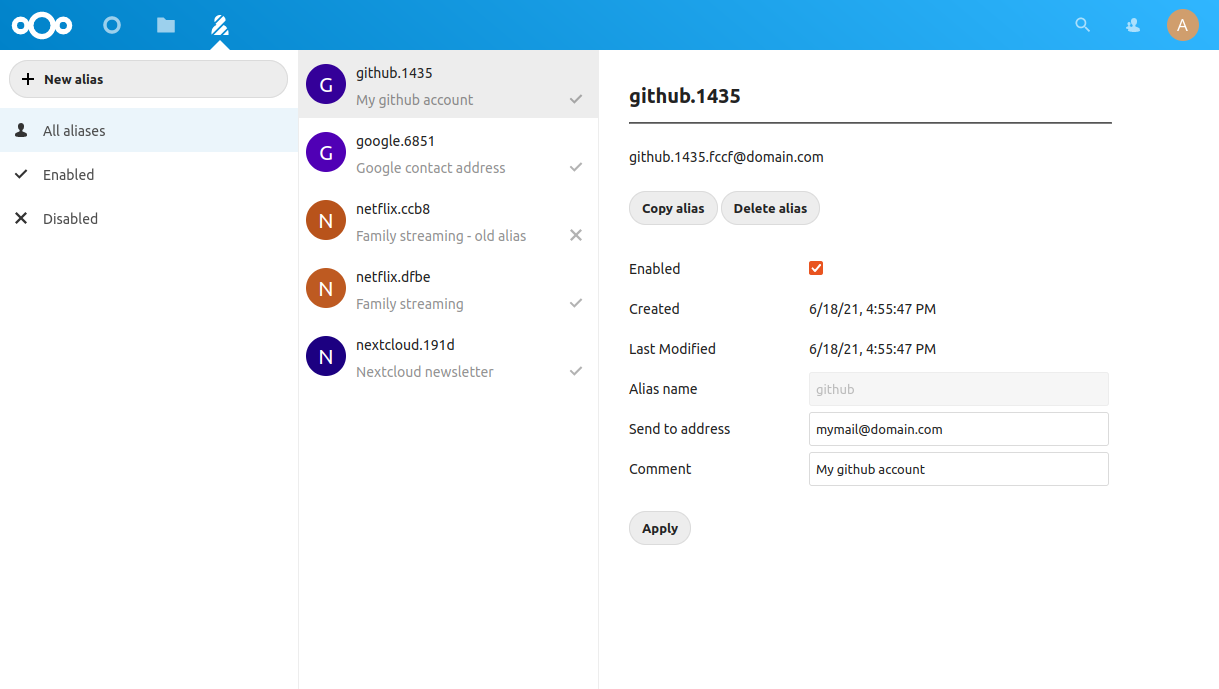
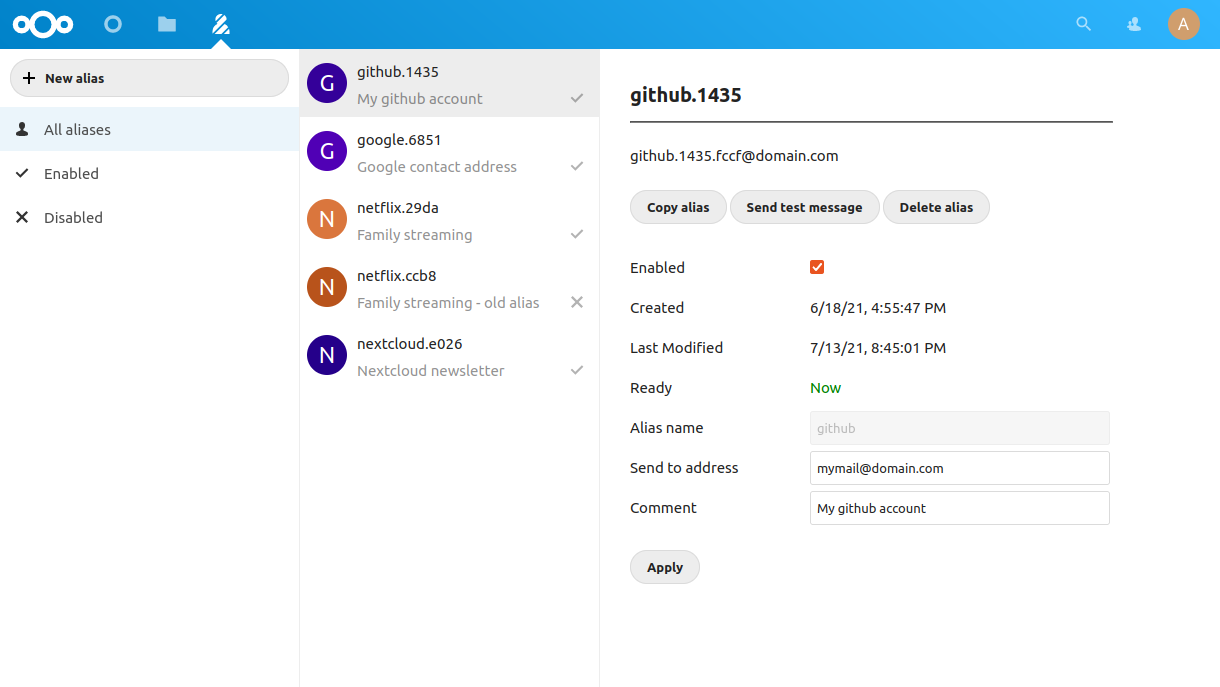
V1.1.2 (#14)
* update info.xml to 1.1.2

* Update readme for features of version 1.1 (#12)

* update screenshot for features of 1.1

* update readme to describe admin settings

* update readme to describe alias form

* fix wrong ready countdown on alias creation (#13)

diff --git a/src/templates.js b/src/templates.js
@@ -90,12 +90,14 @@ export function templateDeleteForm(id, aliasHead) {
 export function setAliasForm(alias, userInfo, config) {
     templateAliasForm(config);
 
+    // Set disable state of test mail button and ready message
+    templateReadyMessage(alias, config);
+
     if (alias === undefined) {
         // New alias mode
         // Enable/Disable fields
         $("#postmagAliasFormCopy").prop("disabled", true);
         $("#postmagAliasFormDelete").prop("disabled", true);
-        $("#postmagAliasFormSendTest").prop("disabled", true);
         $("#postmagAliasFormEnabled").prop("disabled", true);
         $("#postmagAliasFormAliasName").prop("disabled", false);
         $("#postmagAliasFormSendTo").prop("disabled", false);
@@ -108,13 +110,6 @@ export function setAliasForm(alias, userInfo, config) {
         $("#postmagAliasFormEnabled").prop("checked", true);
         $("#postmagAliasFormCreated").text(t("postmag", "Now"));
         $("#postmagAliasFormLastModified").text(t("postmag", "Now"));
-        $("#postmagAliasFormReadyMessage").text(n(
-            "postmag",
-            "%n second after creation",
-            "%n seconds after creation",
-            config['readyTime']));
-        $("#postmagAliasFormReadyMessage").removeClass("postmag-ready");
-        $("#postmagAliasFormReadyMessage").removeClass("postmag-notReady");
         $("#postmagAliasFormAliasName").prop("value", "");
         if(userInfo["email_set"] === "true")
             $("#postmagAliasFormSendTo").prop("value", userInfo["email"]);
@@ -124,9 +119,6 @@ export function setAliasForm(alias, userInfo, config) {
         $("#postmagAliasFormApply").text(t("postmag", "Create"));
     }
     else {
-        // Set disable state of test mail button and ready message
-        templateReadyMessage(alias, config);
-
         // Edit alias mode
         $("#postmagAliasFormCopy").prop("disabled", false);
         $("#postmagAliasFormDelete").prop("disabled", false);
@@ -153,32 +145,46 @@ export function setAliasForm(alias, userInfo, config) {
 }
 
 function templateReadyMessage(alias, config) {
-    const timeTillReady = config["readyTime"] - parseInt(Date.now()/1000) + alias["last_modified_utc"];
-    const ready = timeTillReady <= 0;
-
-    // Disable test mail button depending on if the alias is ready
-    $("#postmagAliasFormSendTest").prop("disabled", !alias["enabled"] || !ready);
-
     // Clear timeout if there is one already running
-    if(templateReadyMessage.timeoutId !== undefined) {
+    if (templateReadyMessage.timeoutId !== undefined) {
         window.clearTimeout(templateReadyMessage.timeoutId);
     }
 
-    if(ready) {
-        $("#postmagAliasFormReadyMessage").text(t("postmag", "Now"));
-        $("#postmagAliasFormReadyMessage").addClass("postmag-ready");
-        $("#postmagAliasFormReadyMessage").removeClass("postmag-notReady");
-    }
-    else {
+    // New alias mode
+    if(alias === undefined) {
+        $("#postmagAliasFormSendTest").prop("disabled", true);
+
         $("#postmagAliasFormReadyMessage").text(n(
             "postmag",
-            "In %n second",
-            "In %n seconds",
-            timeTillReady));
+            "%n second after creation",
+            "%n seconds after creation",
+            config['readyTime']));
         $("#postmagAliasFormReadyMessage").removeClass("postmag-ready");
-        $("#postmagAliasFormReadyMessage").addClass("postmag-notReady");
+        $("#postmagAliasFormReadyMessage").removeClass("postmag-notReady");
+    }
+    // Edit alias mode
+    else {
+        const timeTillReady = config["readyTime"] - parseInt(Date.now() / 1000) + alias["last_modified_utc"];
+        const ready = timeTillReady <= 0;
 
-        templateReadyMessage.timeoutId = window.setTimeout(templateReadyMessage, 1000, alias, config);
+        // Disable test mail button depending on if the alias is ready
+        $("#postmagAliasFormSendTest").prop("disabled", !alias["enabled"] || !ready);
+
+        if (ready) {
+            $("#postmagAliasFormReadyMessage").text(t("postmag", "Now"));
+            $("#postmagAliasFormReadyMessage").addClass("postmag-ready");
+            $("#postmagAliasFormReadyMessage").removeClass("postmag-notReady");
+        } else {
+            $("#postmagAliasFormReadyMessage").text(n(
+                "postmag",
+                "In %n second",
+                "In %n seconds",
+                timeTillReady));
+            $("#postmagAliasFormReadyMessage").removeClass("postmag-ready");
+            $("#postmagAliasFormReadyMessage").addClass("postmag-notReady");
+
+            templateReadyMessage.timeoutId = window.setTimeout(templateReadyMessage, 1000, alias, config);
+        }
     }
 }
 

diff --git a/README.md b/README.md
@@ -22,7 +22,35 @@ Every alias will be of the format
 alias_name.alias_id.user_alias_id@your_domain.com
 ```
 
-your_domain is configurable by the administrator.
+your_domain.com is configurable by the administrator.
+
+## Alias form
+
+Postmag gives the users of your Nextcloud instance an easy form to create aliases of your domain.
+
+![](screenshots/aliasform.png)
+
+* Copy alias: Copies the current alias to clipboard.
+* Send test message: Send a test mail to the current alias.
+* Delete alias: Delete this alias. Deleted aliases can not be restored and thus not be activated again. Consider disabling aliases if you don't want to receive messages via this alias anymore.
+* Enabled: If the alias is enabled, the user receives mails via it.
+* Created: Timestamp of creation of this alias.
+* Last Modified: Timestamp of last modification.
+* Ready: Shows the user, if the set settings of this alias are already valid. See "Time until alias changes are valid" in the settings section below for more information.
+* Alias name: The alias_name part of the alias. This can be chosen by the user at the creation of the alias, but it can't be changed afterwards.
+* Send to address: The target mail address of this alias.
+* Comment: A comment that the user can choose for further information. This has no technical purpose, it's just an information for the user.
+
+## App settings
+
+Postmag gives the admin of your Nextcloud instance some options to configure the app. You find the settings in the "Additional settings" section of Nextcloud.
+
+![](screenshots/settings.png)
+
+* Target mail domain: This is your domain for which the users can generate aliases. It is the your_domain.com part of the aliases.
+* Length of the user alias ids: Length of the user_alias_id part of the aliases. This affects only new users of your instance. The user_alias_id part never changes for existing users. But if your instance grows you can increase this value if you like.
+* Length of alias ids: Length of the alias_id part of the aliases. This affects only new aliases of the users. Existing aliases never changes.
+* Time until alias changes are valid: This setting is useful if you pull the postmag:aliases command (see below) in regular intervals to update your mail server config (for instance via a crontab trigger). You can than make the time until the next trigger visible to the user. For doing this, set the time interval here in seconds. If you don't need this feature, just set this setting to 0.
 
 ## OCC Commands
 
